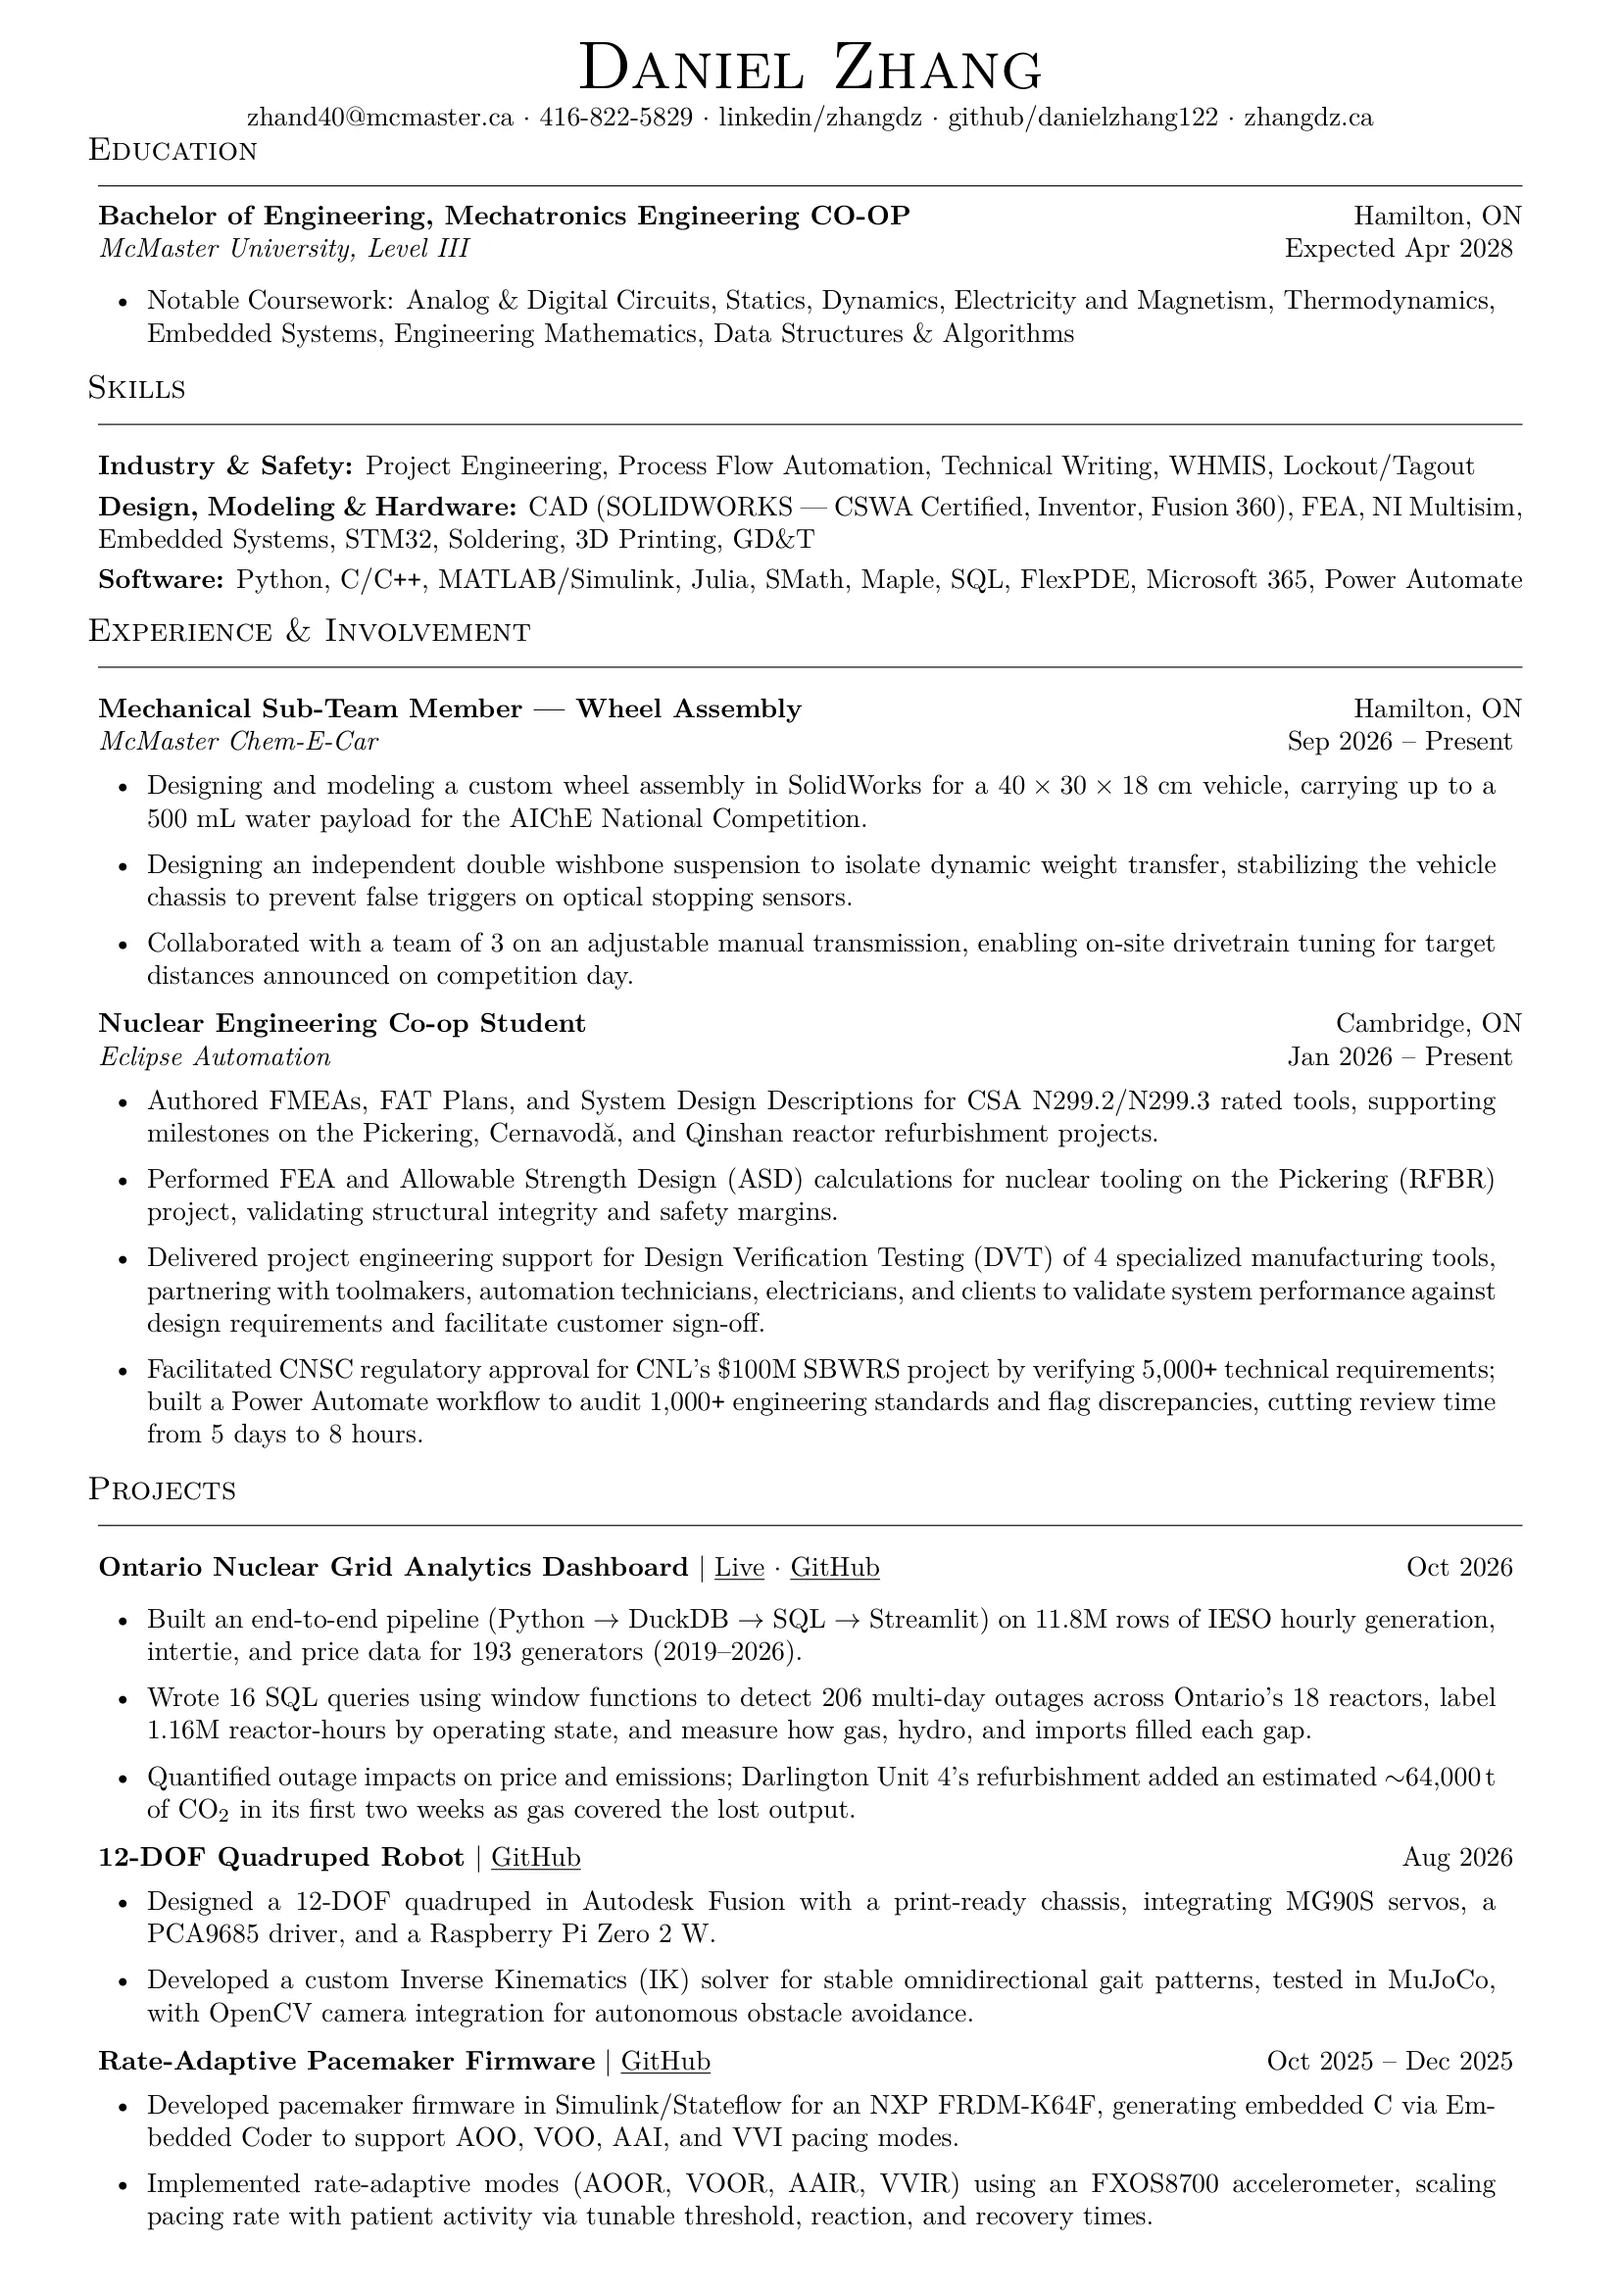
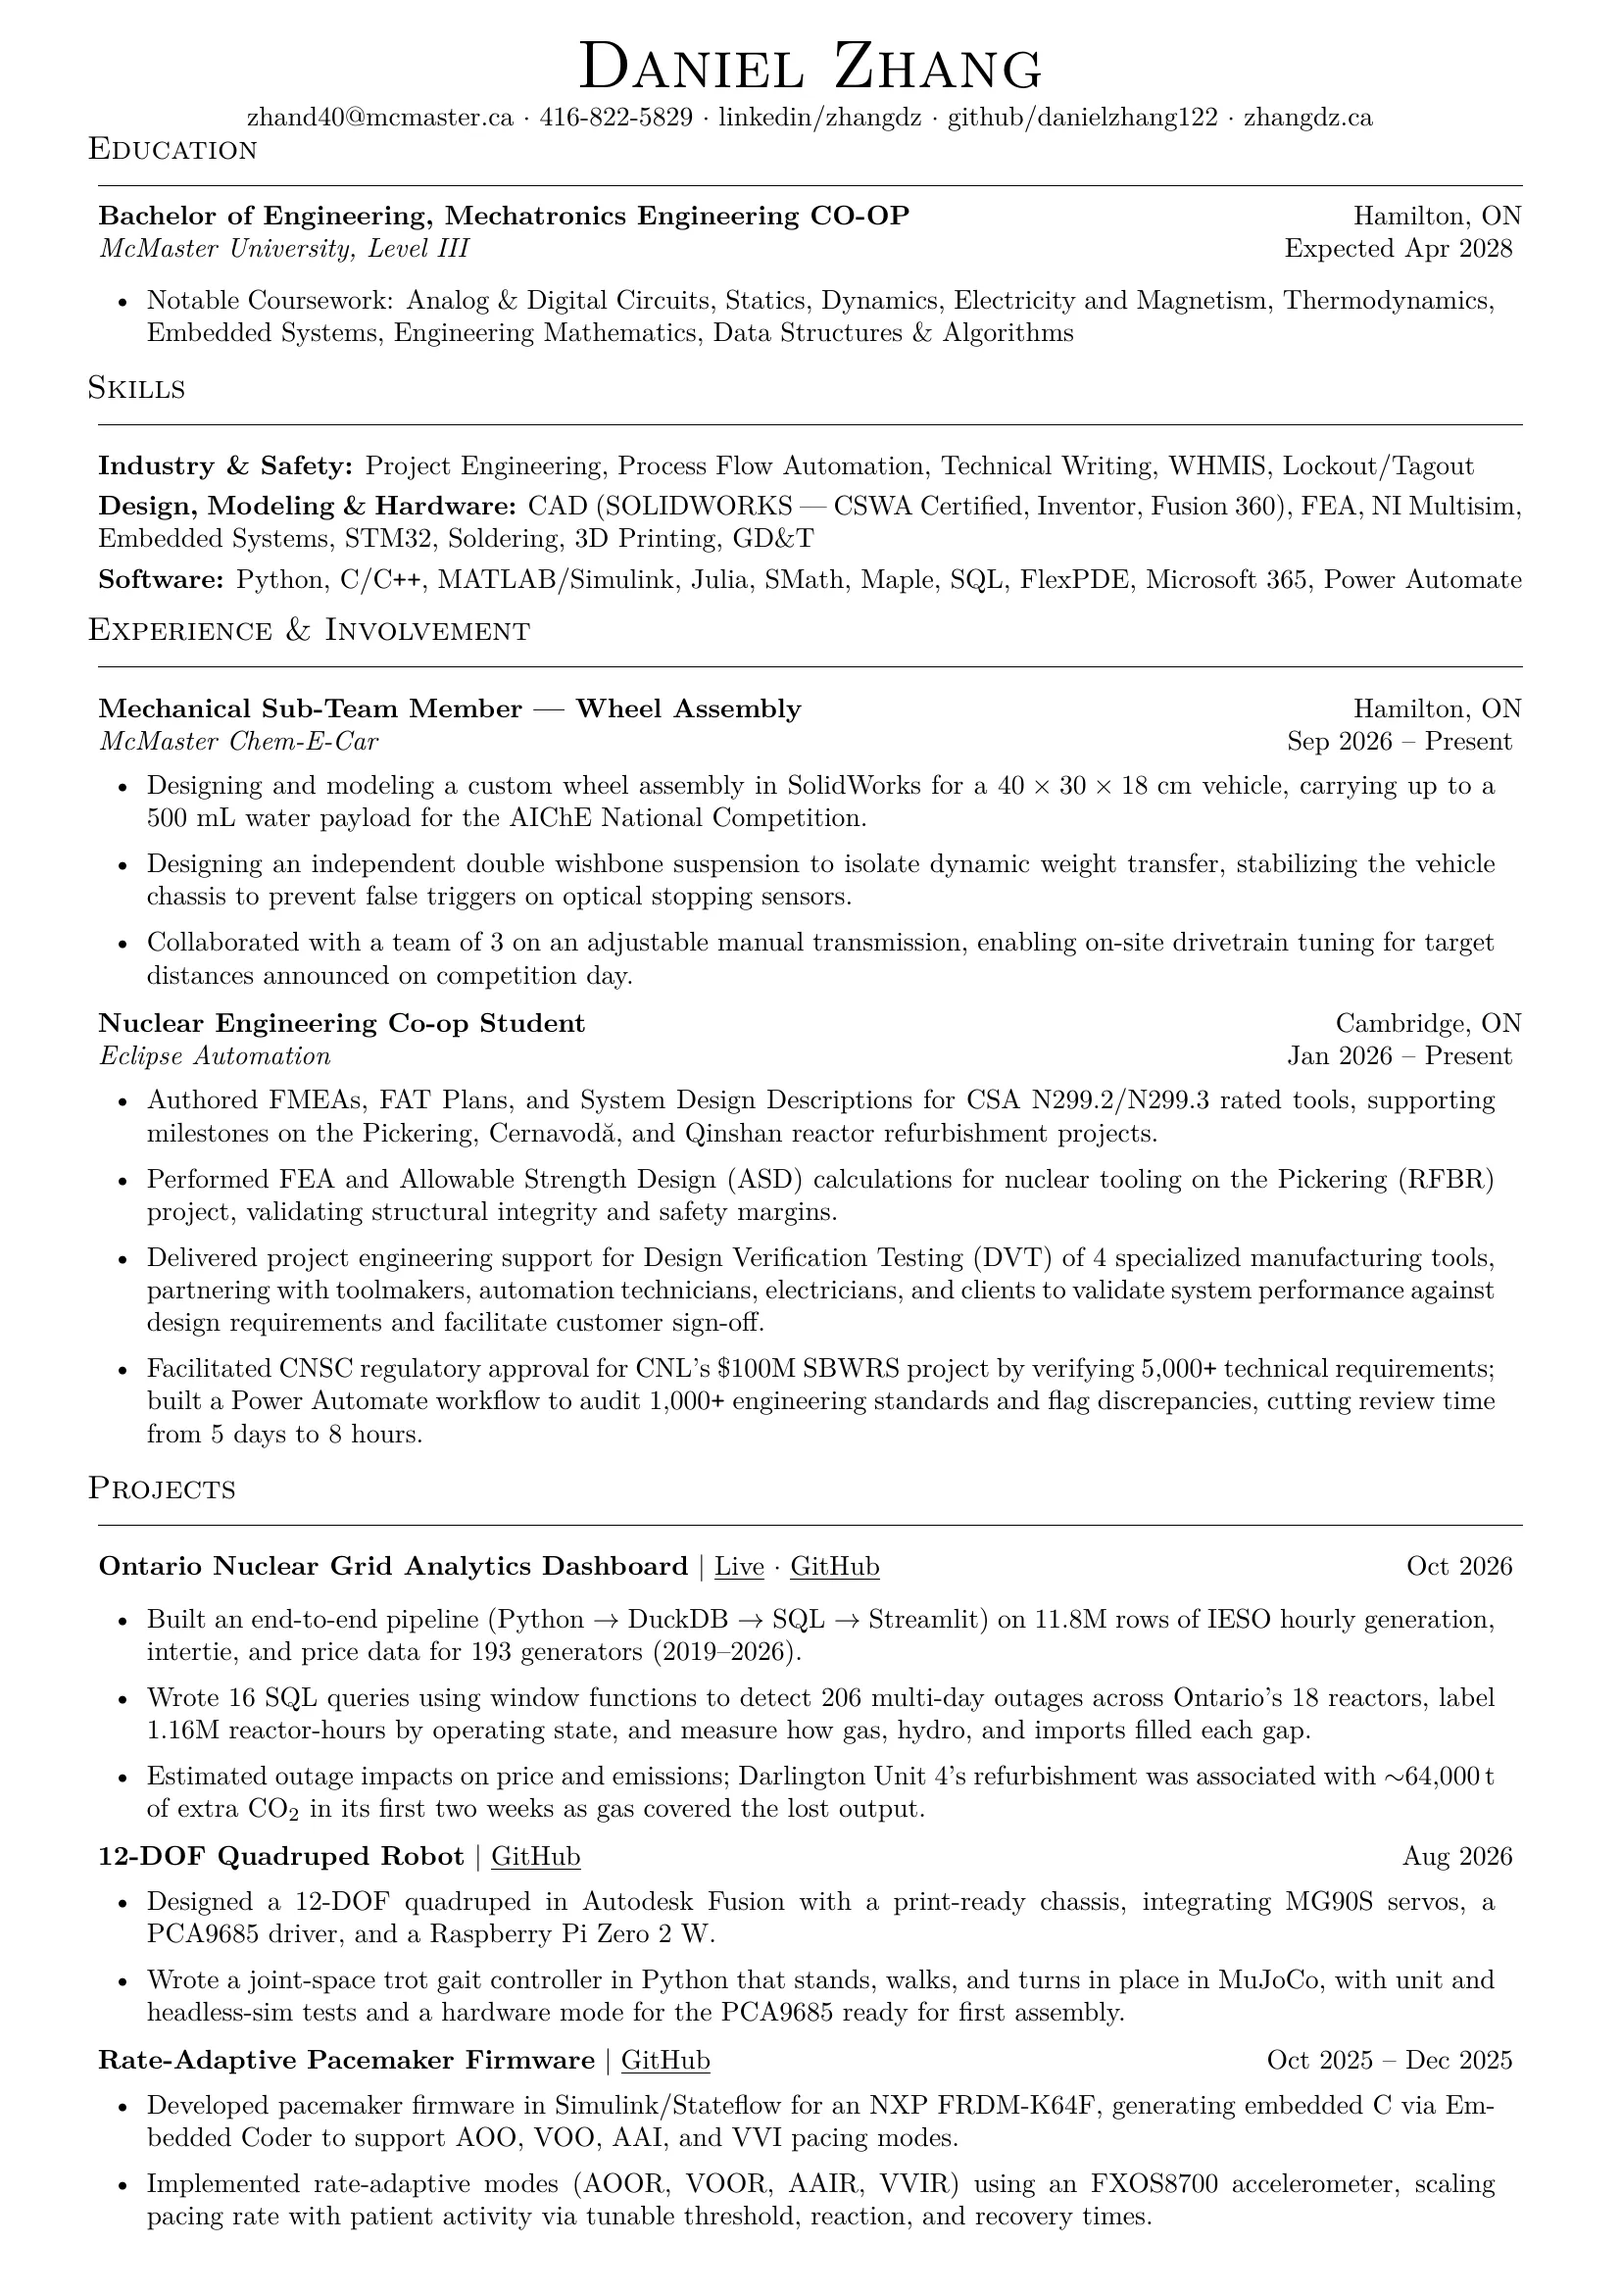
Match project claims to their repos; new résumé PDF

diff --git a/index.html b/index.html
@@ -123,7 +123,7 @@
           <figcaption>WheelSafe, top 3 of 200+</figcaption>
         </figure>
       </div>
-      <p class="dim">More: <button type="button" class="cmd" data-run="projects">projects</button> <button type="button" class="cmd" data-run="misc">misc</button> <button type="button" class="cmd" data-run="resume">resume</button></p>
+      <p class="dim">More: <button type="button" class="cmd" data-run="projects">projects</button> <button type="button" class="cmd" data-run="misc">misc</button> <button type="button" class="cmd" data-run="resume">resume</button> <button type="button" class="cmd" data-run="contact">contact</button></p>
     </section>
 
     <section data-cmd="projects" data-gallery>
@@ -131,7 +131,7 @@
 
       <article data-id="quadruped">
         <h3>Quadruped Robot &amp; Locomotion Sim</h3>
-        <p>A 12-servo, 3D-printable quadruped designed in Fusion 360, exported to URDF and simulated in MuJoCo. A trot gait controller makes it stand, walk and turn in place, and drives the real servos through a PCA9685 board on a Raspberry Pi. It walks perfectly in simulation, where friction always behaves.</p>
+        <p>A 12-servo, 3D-printable quadruped designed in Fusion 360, exported to URDF and simulated in MuJoCo. A trot gait controller makes it stand, walk and turn in place. The hardware mode (servos through a PCA9685 board on a Raspberry Pi) is written and tested against a fake servo board, but waits for the first build. It walks perfectly in simulation, where friction always behaves.</p>
         <p class="tags">Python, MuJoCo, Fusion 360, Raspberry Pi <a href="https://github.com/danielzhang122/quadruped-robot" target="_blank" rel="noopener noreferrer">Repo</a></p>
         <figure class="thumb">
           <video disablepictureinpicture src="images/quadruped-sim.mp4" width="1066" height="756" muted loop playsinline preload="none" data-lightbox
@@ -142,7 +142,7 @@
 
       <article data-id="pacemaker">
         <h3>Rate-Adaptive Pacemaker Firmware</h3>
-        <p>Pacemaker firmware modelled in Simulink and Stateflow for an NXP FRDM-K64F board, with Embedded Coder generating the C that runs on it. The team model paces in AOO, VOO, AAI and VVI modes. My part was the rate-adaptive modes (AOOR, VOOR, AAIR, VVIR): they read the board's FXOS8700 accelerometer and raise the pacing rate with activity, tuned by threshold, reaction and recovery times. The smooth ramp back down to resting rate turned out not to be required, but the TA liked it.</p>
+        <p>Pacemaker firmware modelled in Simulink and Stateflow for an NXP FRDM-K64F board, with Embedded Coder generating the C that runs on it. The team model paces in AOO, VOO, AAI and VVI modes. My part was the rate-adaptive modes (AOOR, VOOR, AAIR, VVIR): they read the board's FXOS8700 accelerometer and raise the pacing rate with activity, tuned by threshold, reaction and recovery times.</p>
         <p class="tags">Simulink, Stateflow, Embedded Coder, NXP FRDM-K64F <a href="https://github.com/danielzhang122/sfwreng-3k04-pacemaker" target="_blank" rel="noopener noreferrer">Repo</a></p>
         <figure class="thumb">
           <img src="images/pacemaker-rate-adaptive.webp" width="2400" height="1002" loading="lazy" data-lightbox
@@ -158,7 +158,7 @@
 
       <article data-id="nuclear">
         <h3>Ontario Nuclear Grid Impact Analysis</h3>
-        <p>What happens to Ontario's grid when a reactor goes offline? 11.8 million rows of hourly IESO data in DuckDB, SQL that finds 206 outages of a day or longer, and an interactive dashboard that shows who picks up the slack. Mostly gas and fewer exports, it turns out, at about $4/MWh more and 145 extra tonnes of CO2 an hour. Reactor behaviour is next. I'm learning SQL from scratch, so the queries get noticeably more confident toward the end.</p>
+        <p>What happens to Ontario's grid when a reactor goes offline? 11.8 million rows of hourly IESO data in DuckDB, SQL that finds 206 outages of a day or longer, and an interactive dashboard that shows who picks up the slack. Mostly gas and fewer exports. Outage hours line up with prices about $4/MWh higher and about 145 more tonnes of CO2 an hour. Reactor behaviour is next.</p>
         <p class="tags">SQL (DuckDB), Python, Streamlit, IESO data <a href="https://nuclear-dashboard.streamlit.app/" target="_blank" rel="noopener noreferrer">Live app</a> <a href="https://github.com/danielzhang122/ontario-nuclear-dashboard" target="_blank" rel="noopener noreferrer">Repo</a></p>
         <figure class="thumb">
           <img src="images/nuclear-generation.webp" width="1965" height="870" loading="lazy" data-lightbox
@@ -185,7 +185,7 @@
 
       <article>
         <h3>Globe Ghost — iOS GPS Simulator</h3>
-        <p>Sets an iPhone's actual GPS location, not just its IP address like a VPN does, for testing location-aware apps. Includes a live map, scripted routes and a geofence tester. Find My now thinks I've been to California.</p>
+        <p>Sets an iPhone's actual GPS location, not just its IP address like a VPN does, for testing location-aware apps. Includes a live map, scripted routes and a geofence tester.</p>
         <p class="tags">Python, pymobiledevice3, OpenStreetMap <a href="https://github.com/danielzhang122/globe-ghost" target="_blank" rel="noopener noreferrer">Repo</a></p>
         <figure class="thumb">
           <img src="images/spoofer.webp" width="1502" height="912" loading="lazy" data-lightbox
@@ -207,7 +207,7 @@
 
       <article data-id="suspension">
         <h3>Double Wishbone Suspension (Concept)</h3>
-        <p>Proof-of-concept double wishbone geometry in SolidWorks for McMaster Chem-E-Car's 2026–2027 season. Nothing is built yet: the point was to work out the kinematics and see how the linkage could control dynamic camber to keep a 500 mL sloshing payload stable over a 33 m run. More suspension than a straight line strictly needs, but the camber curves are worth it.</p>
+        <p>Proof-of-concept double wishbone geometry in SolidWorks for McMaster Chem-E-Car's 2026–2027 season. Nothing is built yet: the point was to work out the kinematics and see how the linkage could control dynamic camber to keep a 500 mL sloshing payload stable over a 33 m run.</p>
         <p class="tags">SolidWorks, kinematics, vehicle dynamics</p>
         <figure class="thumb">
           <video disablepictureinpicture src="images/suspension.mp4" width="400" height="338" muted loop playsinline preload="none" data-lightbox
@@ -280,28 +280,28 @@
         <span class="key">Jan 2026 – present</span>
         <div>
           <p><b>Nuclear Engineering Intern</b>, Eclipse Automation</p>
-          <p class="dim">Tooling design and verification for CANDU sites, including Pickering and international stations. Performed ASD calculations and weldment FEA, wrote FMEAs, and tested CSA N299.2-rated tooling. Nuclear turns out to be roughly 10% tooling, 90% paperwork.</p>
+          <p class="dim">Tooling design and verification for CANDU sites, including Pickering and international stations. Performed ASD calculations and weldment FEA, wrote FMEAs, and tested CSA N299.2-rated tooling. Built a Power Automate workflow that checks 1,000+ engineering standards, cutting a requirements review from 5 days to 8 hours.</p>
         </div>
       </div>
       <div class="row">
         <span class="key">Sep 2026 – present</span>
         <div>
           <p><b>Mechanical Sub-team Member, Wheel Assembly</b>, McMaster Chem-E-Car</p>
-          <p class="dim">Designing custom wheel assemblies and suspension geometry for the 2026–2027 car, to keep 500 mL of water from sloshing over a 33 m run. Overkill, but the geometry checks out.</p>
+          <p class="dim">Designing custom wheel assemblies and suspension geometry for the 2026–2027 car, to keep 500 mL of water from sloshing over a 33 m run.</p>
         </div>
       </div>
       <div class="row">
         <span class="key">2024</span>
         <div>
           <p><b>Top 3 Finalist, ENGINEER 1P13 Showcase</b>, McMaster University</p>
-          <p class="dim">Placed top 3 of 200+ teams with a carbon-fiber wheelchair storage unit, presented to a panel of P.Eng judges, and survived the questions.</p>
+          <p class="dim">Placed top 3 of 200+ teams with a carbon-fiber wheelchair storage unit, presented to a panel of P.Eng judges.</p>
         </div>
       </div>
       <div class="row">
         <span class="key">2023 – present</span>
         <div>
           <p><b>B.Eng., Mechatronics Engineering Co-op (Level III)</b>, McMaster University</p>
-          <p class="dim">Statics, dynamics, embedded systems, circuit theory, and math that feels made up until co-op needs it.</p>
+          <p class="dim">Statics, dynamics, embedded systems, circuit theory and applied math.</p>
         </div>
       </div>
     </section>
@@ -342,7 +342,7 @@
 
     <section data-cmd="resume">
       <h2>Resume</h2>
-      <p>One page; every bullet had to earn its spot. Covers nuclear tooling at Eclipse Automation, wheel and suspension design for Chem-E-Car, and projects from an Ontario nuclear grid dashboard to a legged robot and pacemaker firmware.</p>
+      <p>One page, covering nuclear tooling at Eclipse Automation, wheel and suspension design for Chem-E-Car, and projects from an Ontario nuclear grid dashboard to a legged robot and pacemaker firmware.</p>
       <p class="dim">PDF, one page, updated Oct 2026. <a href="Daniel_Zhang_Resume.pdf" download>Download</a> or <a href="Daniel_Zhang_Resume.pdf" target="_blank" rel="noopener noreferrer">open it in a new tab</a>.</p>
       <div class="thumbs whole">
         <img src="images/resume-preview.webp" width="1654" height="2339" class="resume-thumb" loading="lazy" data-lightbox
@@ -353,7 +353,7 @@
 
         <section data-cmd="interests">
       <h2>interests</h2>
-      <p>I'm into all things engineering and technology, but my interests go well beyond that. From woodcarving and cooking to languages, history, and science, I enjoy learning new things and following whatever rabbit hole catches my attention. Lately, that's included jump rope and nunchucks.</p>
+      <p>I'm into all things engineering and technology, but my interests go well beyond that. From woodcarving and cooking to languages, history, and science, I enjoy learning new things and following whatever rabbit hole catches my attention. Lately, that's included jump rope, nunchucks and learning the harmonica.</p>
      
     </section>
 
